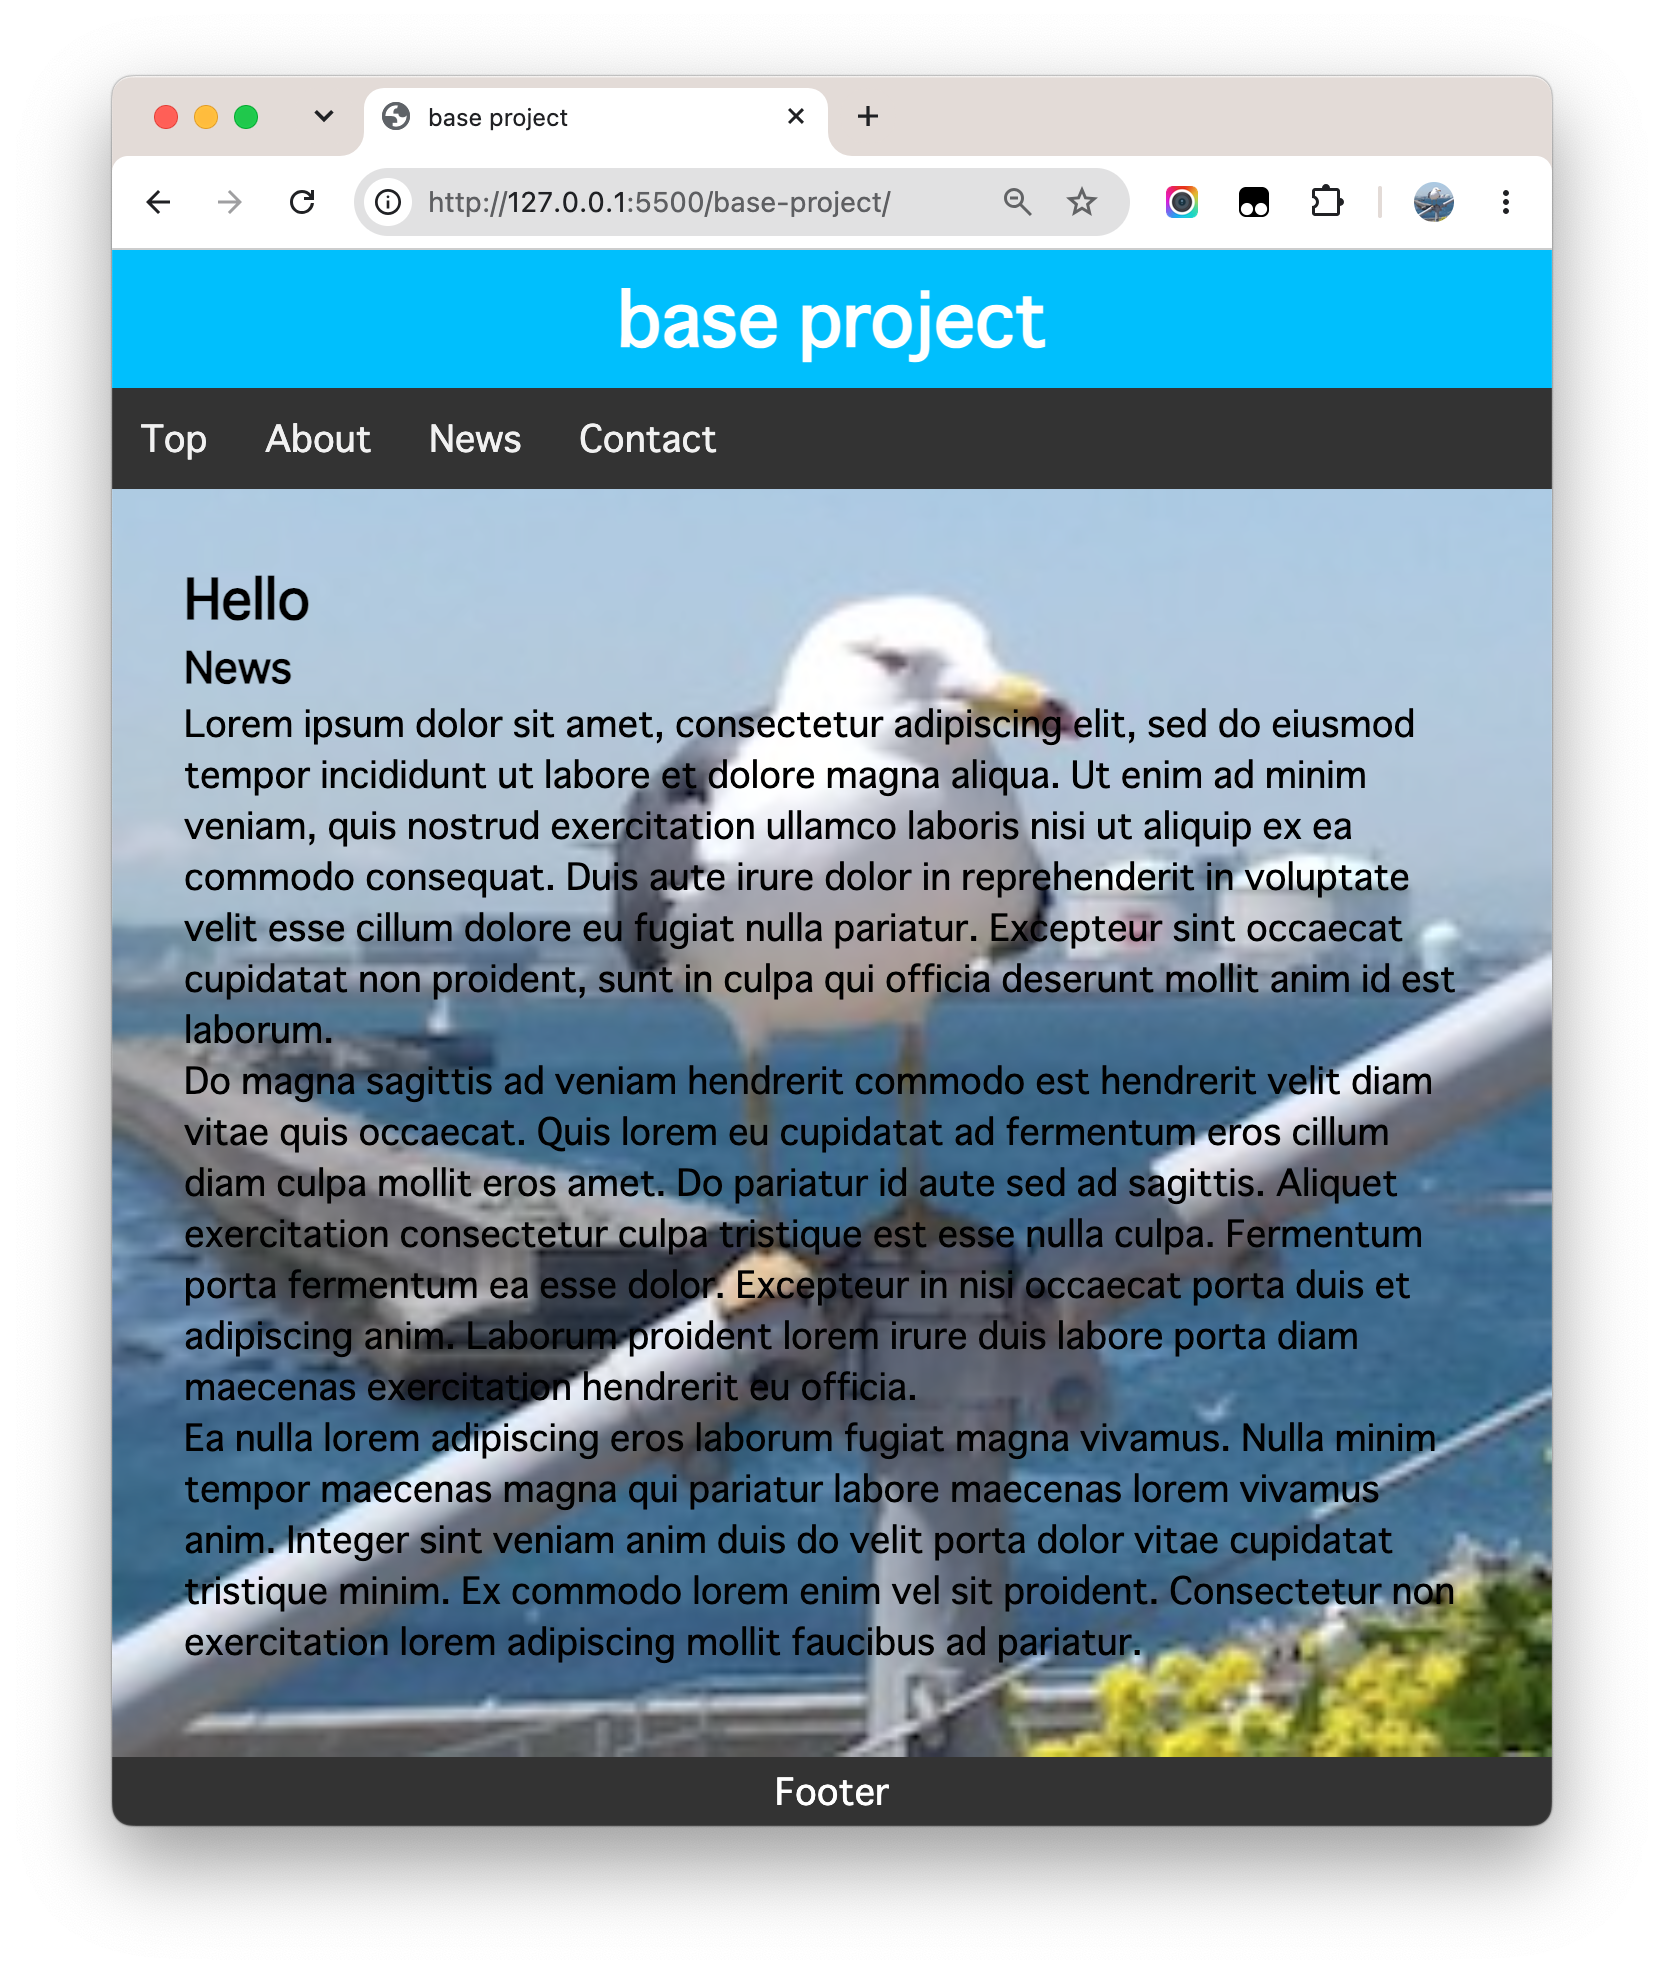
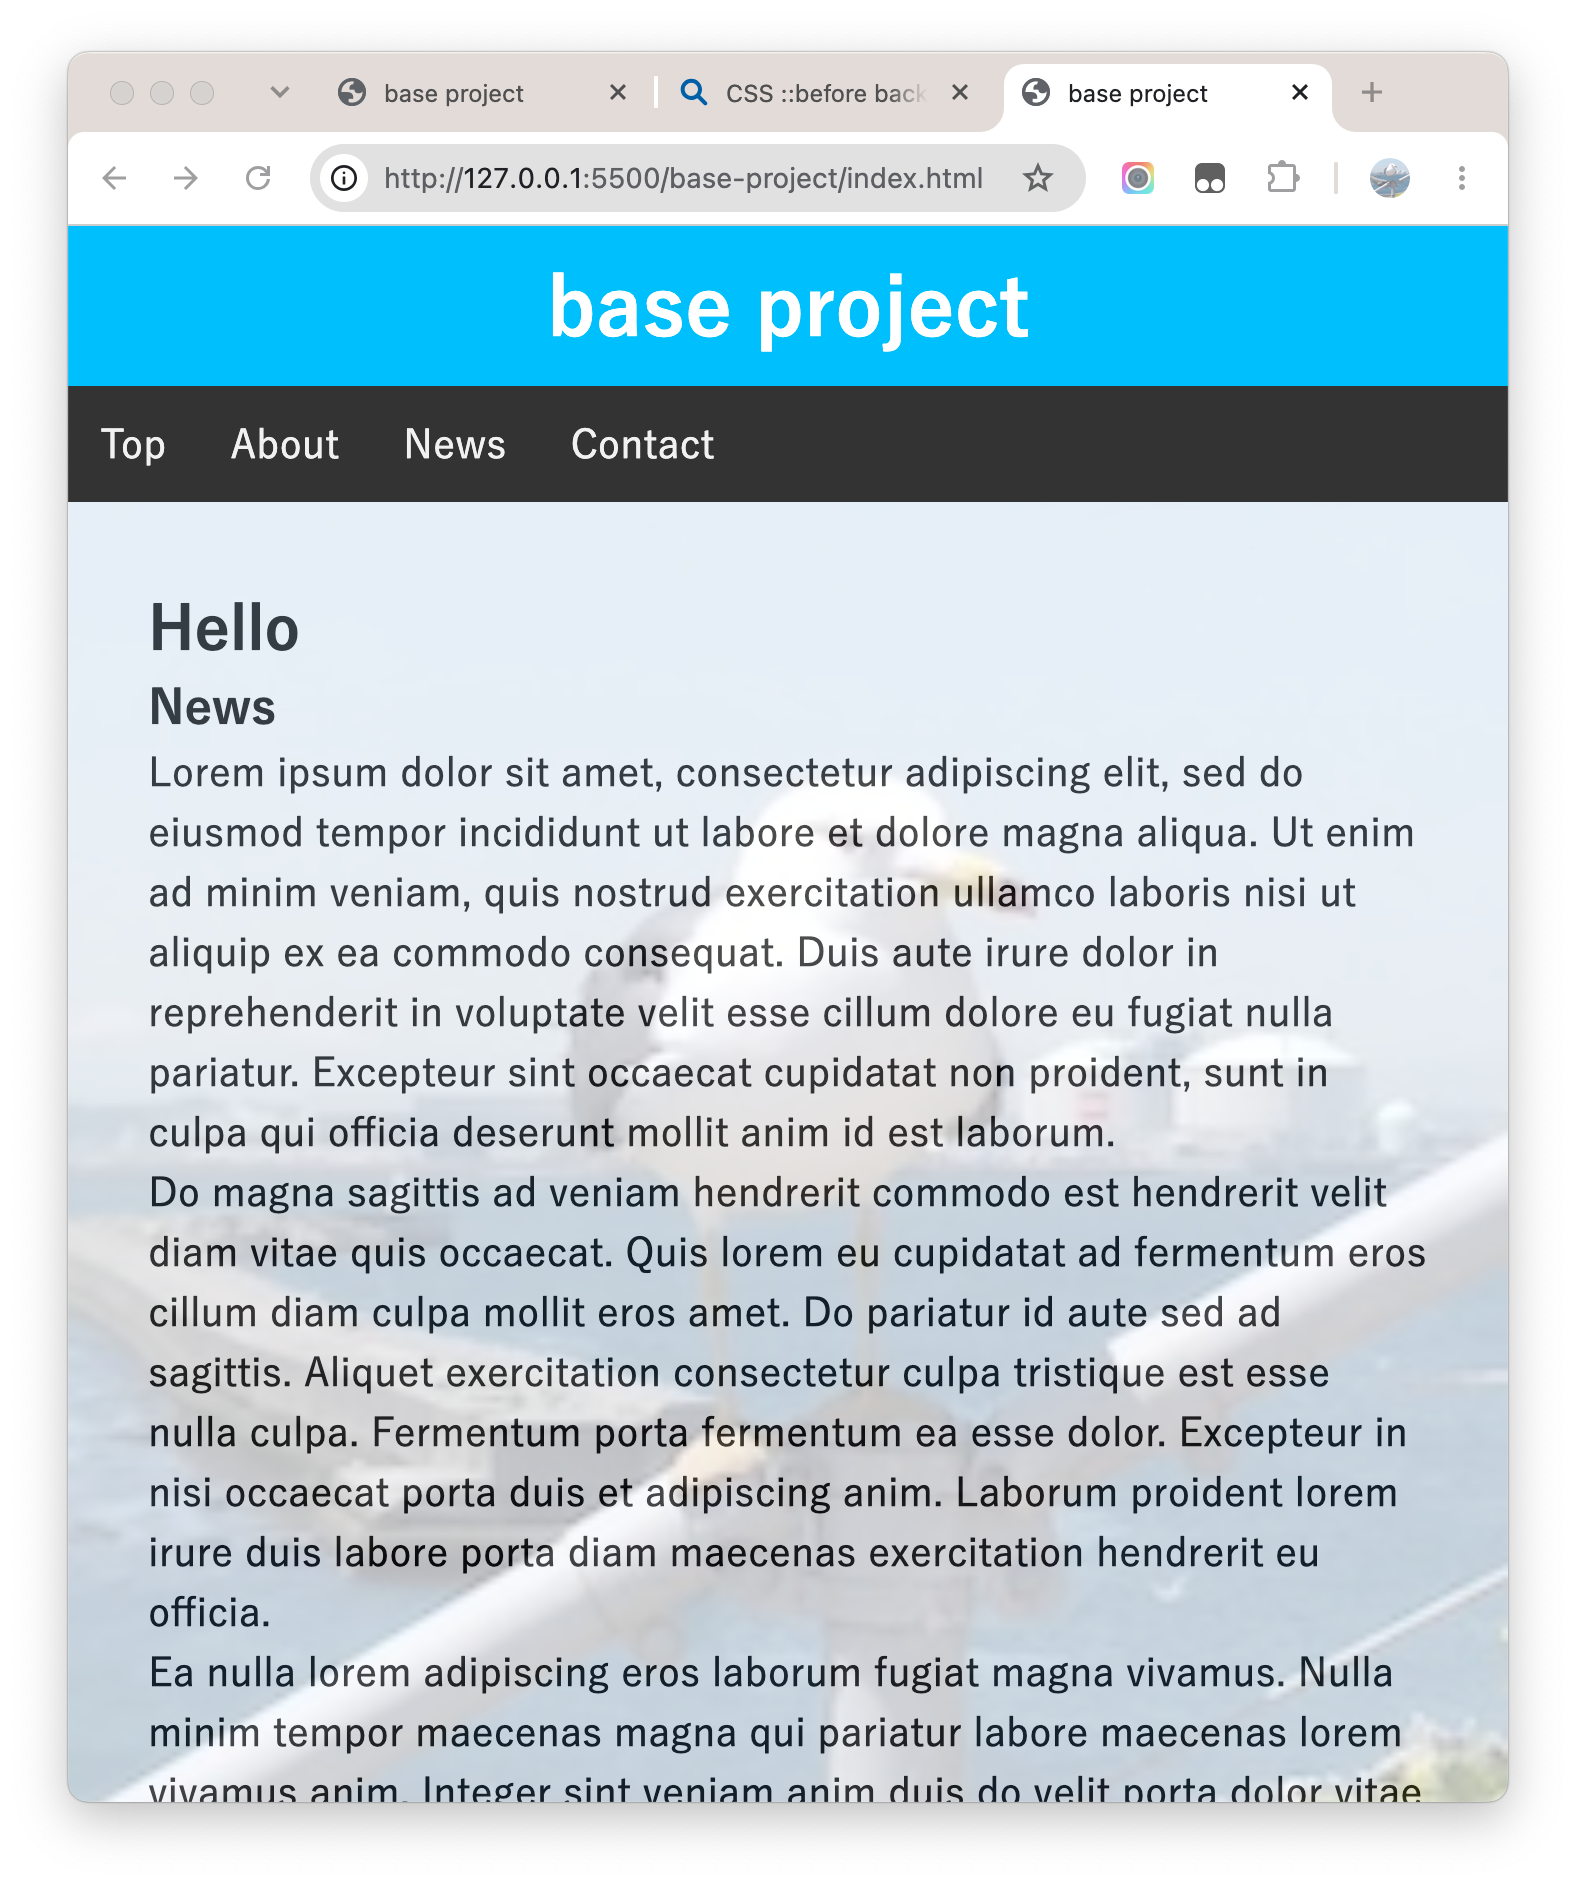
update the docs

diff --git a/my-minista-project/src/assets/css/common/general.css b/my-minista-project/src/assets/css/common/general.css
@@ -1,39 +1,16 @@
 @charset "UTF-8";
 
-#myheader {
-    background-color: deepskyblue;
-    color: white;
-    text-align: center;
-    padding: 10px;
+* {
+   margin: 0;
+   padding: 0;
+   box-sizing: border-box;
 }
-
-#mynav {
-    background-color:gainsboro;
+img {
+   display: block;
+   max-width: 100%;
+   height: auto;
 }
-
-#mynav .menu {
-  display: flex;
-  list-style-type: none;
-  margin: 0;
-  padding: 0;
-  background-color: #333333;
-}
-
-#mynav .menu li a {
-  display: block;
-  color: #f1f1f1;
-  padding: 14px 16px;
-  text-decoration: none;
-}
-
-#mynav .menu li a:hover {
-  background-color: #dddddd;
-  color: black;
-}
-
-#myfooter {
-    background-color: #333333;
-    padding: 5px;
-    text-align: center;
-    color:white;
+body {
+   font-family: "UD Digi Kyokasho N-R'", sans-serif;
+   line-height: 1.5;
 }

diff --git a/base-project/style/index.css b/base-project/style/index.css
@@ -1,9 +1,19 @@
 @charset "UTF-8";
 
 #main .mainVisual {
-  position: relative;
-  padding: 40px 40px 50px 40px;
+	position: relative;
+	padding: 40px 40px 50px 40px;
+	width: 100%;
+	height: 100%;
+}
+
+#main .mainVisual::before {
+	content: "";
+	position: absolute;
+	top: 0;
+	left: 0;
 	width: 100%;
 	height: 100%;
 	background: url('../images/seagull.jpg') no-repeat center / cover;
+	opacity: 0.3;
 }

diff --git a/my-minista-project/src/assets/css/modules/index.module.css b/my-minista-project/src/assets/css/modules/index.module.css
@@ -2,8 +2,18 @@
 
 #main .mainVisual {
 	position: relative;
-  padding: 40px 40px 50px 40px;
+	padding: 40px 40px 50px 40px;
+	width: 100%;
+	height: 100%;
+}
+
+#main .mainVisual::before {
+	content: "";
+	position: absolute;
+	top: 0;
+	left: 0;
 	width: 100%;
 	height: 100%;
 	background: url('../images/seagull.jpg') no-repeat center / cover;
+	opacity: 0.3;
 }

diff --git a/base-project/about/index.html b/base-project/about/index.html
@@ -21,7 +21,7 @@
         <a href="/base-project/">Top</a>
       </li>
       <li>
-        <a href="/about/">About</a>
+        <a href="/base-project/about/">About</a>
       </li>
       <li>
         <a href="#">News</a>

diff --git a/base-project/style/general.css b/base-project/style/general.css
@@ -10,3 +10,7 @@ img {
    max-width: 100%;
    height: auto;
 }
+body {
+   font-family: "UD Digi Kyokasho N-R", sans-serif;
+   line-height: 1.5;
+}

diff --git a/my-minista-project/src/assets/css/modules/about.module.css b/my-minista-project/src/assets/css/modules/about.module.css
@@ -1,7 +1,7 @@
 @charset "UTF-8";
 
 section {
-    padding: 40px 0;
+    padding: 40px 20px;
     background-color: #f5f5f5;
 }
 figure {

diff --git a/docs/index.md b/docs/index.md
@@ -1,7 +1,7 @@
 - Table of contents
 {:toc}
 
-# viteがHTML要素のID属性をハッシュしたCSSセレクタを生成するのを回避する方法
+# viteがHTML要素のID属性をハッシュしたCSSセレクタを生成するので困った話
 
 サンプルプロジェクトのソースをGitHubに公開しました。以下のURLからアクセスできます。
 
@@ -11,30 +11,39 @@
 
 私はある学術団体のインターネットホームページの管理を任されている。そのサイトは古き良きHTMLサイトであり、ソースの部品化ができていないため、メンテナンスに問題がある。このサイトをTypeScript言語でJSXで書き直したいと念願している。ただしこのサイトは現状ApacheサーバのhtdocsディレクトリにHTMLとCSSとJSを配置するだけのシンプルな構成であり、それを維持したい。スタティックサイトジェネレーター minista を使えば私の望みが叶えられそうだと思った。私がministaに入門した次第をZenn記事で公開した。
 
--   [スタティックサイトジェネレーター minista を試してみた](https://github.com/kazurayam/how-to-setup-vite-not-to-hash-ID-in-CSS-selector/blob/master/base-project/index.html)
+-   [スタティックサイトジェネレーター minista を試してみた](https://github.com/kazurayam/how-to-setup-vite-not-to-hash-ID-in-CSS-selector/blob/article/base-project/index.html)
 
-新しいサイトを元サイトと完全に同じ見た目にしたい。それが必須の目標だ。ところが、元サイトをTypeScriptとJSCとCSS Moduleで書き直すと、新しいサイトの見た目が元サイトと全然違ったものになってしまった。元サイトでは有効に働いていたCSSルールが新しいサイトで働かなくなっていた。原因を調査し対策を講じた。その次第を記録し公開する。
+新しいサイトを元サイトと完全に同じ見た目にしたい。それは必須だ。ところが、元サイトをTypeScriptとJSXとCSS Moduleで書き直したら、新しいサイトの見た目が元サイトと全然違ったものになってしまった。元サイトでは有効に働いていたCSSルールが新しいサイトで無効になっていた。原因を調査し対策を講じた。その次第を記録し公開する。
 
 ## step01: 元となる静的HTMLサイト
 
-link:https://github.com/kazurayam/how-to-setup-vite-not-to-hash-ID-in-CSS-selector/blob/master/base-project/index.html
-\[レポジトリ\]をローカルにcloneして、`` base-project/index.html` `` を開くと、以下のような静的HTMLサイトが表示されます。
+[デモのレポジトリ](https://github.com/kazurayam/how-to-setup-vite-not-to-hash-ID-in-CSS-selector) をローカルにcloneして、VSCodeの [Live Server](https://zenn.dev/harasho/articles/vscode-live-server) extensionを使って `base-project/index.html` を開くと、以下のような静的HTMLサイトが表示されます。
 
-![base-project/index.html](https://kazurayam.github.io/how-to-setup-vite-not-to-hash-ID-in-CSS-selector/images/011_base-project.png)
+-   <http://127.0.0.1:5500/base-project/index.html>
 
-どおってことないwebサイトです。HTMLとCSSと画像から構成されています。
+![base-project/index.html](https://kazurayam.github.io/how-to-setup-vite-not-to-hash-ID-in-CSS-selector/images/011_base-project-top.png)
+
+-   <http://127.0.0.1:5500/base-project/about/index.html>
+
+![base-project/about/index.html](https://kazurayam.github.io/how-to-setup-vite-not-to-hash-ID-in-CSS-selector/images/012_base-project-about.png)
+
+このwebサイトは本記事のために作ったサンプルです。わたしが仕事で関わっているサイトのコードを踏まえていますが、どおってことないHTMLとCSSと画像から構成されています。
 
     $ tree base-project
     base-project
+    ├── about
+    │   └── index.html
     ├── images
+    │   ├── 4467417.jpeg
     │   └── seagull.jpg
     ├── index.html
     └── style
+        ├── about.css
         ├── general.css
         ├── index.css
         └── layout.css
 
-ソースコードを掲載しておきます。
+ソースコードの一部を引用しておきます。
 
 ### index.html
 
@@ -58,10 +67,10 @@ link:https://github.com/kazurayam/how-to-setup-vite-not-to-hash-ID-in-CSS-select
       <nav id="mynav">
         <ul class="menu">
           <li>
-            <a href="/">Top</a>
+            <a href="/base-project/">Top</a>
           </li>
           <li>
-            <a href="/about/">About</a>
+            <a href="/base-project/about/">About</a>
           </li>
           <li>
             <a href="#">News</a>
@@ -107,7 +116,8 @@ link:https://github.com/kazurayam/how-to-setup-vite-not-to-hash-ID-in-CSS-select
 
 ### style/general.css
 
-    /* style/general.css */
+    @charset "UTF-8";
+
     * {
        margin: 0;
        padding: 0;
@@ -118,10 +128,15 @@ link:https://github.com/kazurayam/how-to-setup-vite-not-to-hash-ID-in-CSS-select
        max-width: 100%;
        height: auto;
     }
+    body {
+       font-family: "UD Digi Kyokasho N-R", sans-serif;
+       line-height: 1.5;
+    }
 
 ### style/layout.css
 
-    /* style/layout.css */
+    @charset "UTF-8";
+
     #myheader {
         background-color: deepskyblue;
         color: white;
@@ -162,13 +177,24 @@ link:https://github.com/kazurayam/how-to-setup-vite-not-to-hash-ID-in-CSS-select
 
 ### style/index.css
 
-    /* style/index.css */
+    @charset "UTF-8";
+
     #main .mainVisual {
-      position: relative;
-      padding: 40px 40px 50px 40px;
+        position: relative;
+        padding: 40px 40px 50px 40px;
+        width: 100%;
+        height: 100%;
+    }
+
+    #main .mainVisual::before {
+        content: "";
+        position: absolute;
+        top: 0;
+        left: 0;
         width: 100%;
         height: 100%;
         background: url('../images/seagull.jpg') no-repeat center / cover;
+        opacity: 0.3;
     }
 
 ここに登場したCSSセレクタに注目してください。
@@ -197,7 +223,7 @@ link:https://github.com/kazurayam/how-to-setup-vite-not-to-hash-ID-in-CSS-select
 
 元サイト `base-project` とは見た目が違っています。背景画像が無くなっていますし、余白の大きさが違っています。どうしてこうなったのか？これが解決すべき問題です。
 
-## step03: viteが .tsx と .css をトランスパイルしてどんなHTMLを生成したのか
+## step04: viteが .tsx と .css をトランスパイルしてどんなHTMLを生成したのか
 
 ブラウザで `http://localhost:5173` を開いたときにブラウザに表示されたwebページをファイルに保存し増田。それが下記のテキストです。
 
@@ -213,8 +239,7 @@ link:https://github.com/kazurayam/how-to-setup-vite-not-to-hash-ID-in-CSS-select
         <title>my-minista-project</title>
         <script type="module" src="my-minista-project_files/@__minista-bundle-glob_My4J.js"></script>
         <style type="text/css"
-            data-vite-dev-id="/Users/kazuakiurayama/github/how-to-setup-vite-not-to-hash-ID-in-CSS-selector/my-minista-project/src/assets/css/general.css">
-            /* style/general.css */
+            data-vite-dev-id="/Users/kazuakiurayama/github/how-to-setup-vite-not-to-hash-ID-in-CSS-selector/my-minista-project/src/assets/css/common/general.css">
             * {
                 margin: 0;
                 padding: 0;
@@ -228,8 +253,7 @@ link:https://github.com/kazurayam/how-to-setup-vite-not-to-hash-ID-in-CSS-select
             }
         </style>
         <style type="text/css"
-            data-vite-dev-id="/Users/kazuakiurayama/github/how-to-setup-vite-not-to-hash-ID-in-CSS-selector/my-minista-project/src/assets/css/layout.css">
-            /* style/layout.css */
+            data-vite-dev-id="/Users/kazuakiurayama/github/how-to-setup-vite-not-to-hash-ID-in-CSS-selector/my-minista-project/src/assets/css/common/layout.css">
             #myheader {
                 background-color: deepskyblue;
                 color: white;
@@ -269,8 +293,7 @@ link:https://github.com/kazurayam/how-to-setup-vite-not-to-hash-ID-in-CSS-select
             }
         </style>
         <style type="text/css"
-            data-vite-dev-id="/Users/kazuakiurayama/github/how-to-setup-vite-not-to-hash-ID-in-CSS-selector/my-minista-project/src/assets/css/index.module.css">
-            /* style/index.css */
+            data-vite-dev-id="/Users/kazuakiurayama/github/how-to-setup-vite-not-to-hash-ID-in-CSS-selector/my-minista-project/src/assets/css/modules/index.module.css">
             #_main_1clvc_2 ._mainVisual_1clvc_2 {
                 position: relative;
                 padding: 40px 40px 50px 40px;
@@ -278,15 +301,6 @@ link:https://github.com/kazurayam/how-to-setup-vite-not-to-hash-ID-in-CSS-select
                 height: 100%;
                 background: url('/src/assets/images/seagull.jpg') no-repeat center / cover;
             }
-
-            /*
-    #main .mainVisual .titleBox {
-      padding: 0 0 40px 0;
-    }
-    #main .mainVisual .newsBox h3{
-      padding: 0 0 20px 0;
-    }
-      */
         </style>
     </head>
 

diff --git a/README.md b/README.md
@@ -1,9 +1,9 @@
 # How to setup vite not to hash ID in CSS selector
 
-古き良きHTMLサイトをTypeScript言語でJSXで書き直したいと思った。LayoutとページテンプレートをTypeScript言語でJSX構文で書いて、[minista](https://minista.qranoko.jp/) ver4を使って静的サイトを生成した。
+古き良きHTMLサイトをTypeScript言語でJSXを活用して書き直したいと思った。LayoutとページテンプレートをTypeScript言語でJSX構文で書いて、[minista](https://minista.qranoko.jp/) ver4を使って静的サイトを生成した。
 
-やってみたら画面のスタイルが崩れた。
+やってみたら画面のスタイルが崩れた。CSS Moduleの周りに地雷があった。
 
-古き良きHTMLサイトをJSXで書き直したいと考える人がもしいたら、わたしと同じように四苦八苦するだろう。彼らのためにわたしの経験を記録して公開しよう。
+古き良きHTMLサイトをminista(=vite)で書き直したいと考える人がもしいたら、わたしと同じように四苦八苦するだろう。彼らのためにわたしの経験を記録して公開しよう。
 
 - [docs](https://kazurayam.github.io/how-to-setup-vite-not-to-hash-ID-in-CSS-selector/)
